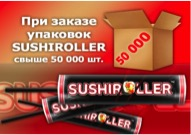
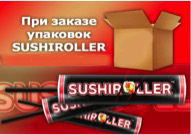
modified prices and images

diff --git a/index.html b/index.html
@@ -2,7 +2,7 @@
 <html>
     <head>
         <meta charset="utf-8">
-        <title>slider</title>
+        <title>Упаковка SUSHIROLLER</title>
         <link href="css/jquery.bxslider.css" rel="stylesheet" />
         <link rel="stylesheet" href="css/style.css">
         <link rel="stylesheet" href="css/popup.css">
@@ -73,7 +73,7 @@
 
                 <div class="article">
                     <div class="article__img">
-                        <img src="images/tuba10.jpg" alt="">
+                        <img src="images/tuba50.jpg" alt="">
                     </div>
 
                     <div class="article__text">
@@ -83,8 +83,8 @@
 
                         <div class="article__text_main">
                             <p>Стоимость одного комплекта упаковки SUSHIROLLER</p>
-                            <p class="article__text_floatleft">при заказе до 10 000 составляет</p>
-                            <p class="article__price">37.9 руб.</p>
+                            <p class="article__text_floatleft">при заказе от 1 000 до 10 000 штук составляет</p>
+                            <p class="article__price">38.90 руб.</p>
                         </div>
                     </div>
                 </div>
@@ -93,7 +93,7 @@
 
                 <div class="article">
                     <div class="article__img">
-                        <img src="images/tuba10-50.jpg" alt="">
+                        <img src="images/tuba50.jpg" alt="">
                     </div>
 
                     <div class="article__text">
@@ -103,8 +103,8 @@
 
                         <div class="article__text_main">
                             <p>Стоимость одного комплекта упаковки SUSHIROLLER</p>
-                            <p class="article__text_floatleft">при заказе от 10 000 до 50 000 составляет</p>
-                            <p class="article__price">36.9 руб.</p>
+                            <p class="article__text_floatleft">при заказе от 10 000 до 30 000 штук составляет</p>
+                            <p class="article__price">36.90 руб.</p>
                         </div>
                     </div>
                 </div>
@@ -123,8 +123,8 @@
 
                         <div class="article__text_main">
                             <p>Стоимость одного комплекта упаковки SUSHIROLLER</p>
-                            <p class="article__text_floatleft">при заказе свыше 50 000 составляет</p>
-                            <p class="article__price">35.9 руб.</p>
+                            <p class="article__text_floatleft">при заказе от 30 000 до 50 000 штук составляет</p>
+                            <p class="article__price">34.9 руб.</p>
                         </div>
                     </div>
                 </div>
